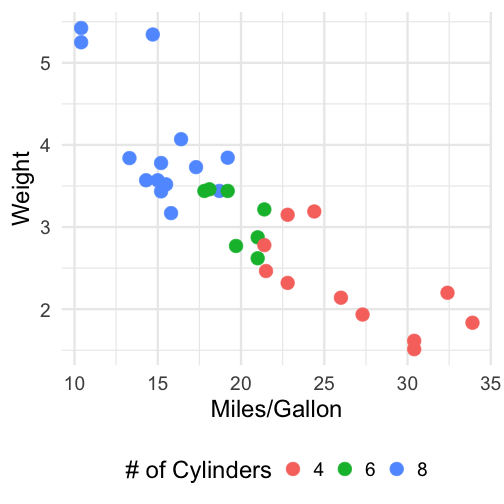
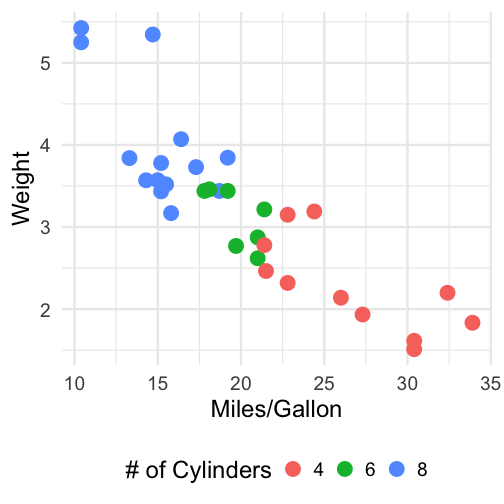
Session 2 slides update

diff --git a/slides/session_2/session_2.html b/slides/session_2/session_2.html
@@ -27,7 +27,7 @@ class: center, middle
 
 ## Session 2
 
-### September 13, 2024
+### September 19, 2025
 
 ---
 
@@ -565,7 +565,7 @@ class: center, middle
 
 ---
 
-### Mid-Course Assignment (**Due on Thursday, September 26**)
+### Mid-Course Assignment (**Due on Wednesday, October 1**)
 
 &lt;ol&gt;
 &lt;li&gt; Find an open-source dataset. Anything will do, there is ton of data out there. If you are looking for inspiration, you can explore the &lt;a href = https://github.com/rfordatascience/tidytuesday&gt;Tidy Tuesday Github repository&lt;/a&gt;. &lt;br&gt;&lt;/br&gt;&lt;/li&gt;
@@ -618,10 +618,10 @@ RStudio, **[RStudio Cheatsheets](https://www.rstudio.com/resources/cheatsheets/)
 <style data-target="print-only">@media screen {.remark-slide-container{display:block;}.remark-slide-scaler{box-shadow:none;}}</style>
 <script src="https://remarkjs.com/downloads/remark-latest.min.js"></script>
 <script>var slideshow = remark.create({
-"highlightStyle": "github",
-"highlightLines": true,
-"countIncrementalSlides": false,
-"slideNumberFormat": "%current%"
+  "highlightStyle": "github",
+  "highlightLines": true,
+  "countIncrementalSlides": false,
+  "slideNumberFormat": "%current%"
 });
 if (window.HTMLWidgets) slideshow.on('afterShowSlide', function (slide) {
   window.dispatchEvent(new Event('resize'));

diff --git a/README.html b/README.html
@@ -370,7 +370,8 @@ folder</a></p></li>
 or <a href="https://mfiorina.github.io/mief_sais_r_course/syllabus/mief_r_course_syllabus.pdf">.pdf</a>)</p></li>
 <li><p>Session 1 slides (<a href="https://mfiorina.github.io/mief_sais_r_course/slides/session_1/session_1.html">.html</a>
 or <a href="https://mfiorina.github.io/mief_sais_r_course/slides/session_1/session_1.pdf">.pdf</a>)</p></li>
-<li><p>Session 2 slides <a href="(%5B.html%5D(https://mfiorina.github.io/mief_sais_r_course/slides/session_2/session_2.html))"></a></p></li>
+<li><p>Session 2 slides (<a href="https://mfiorina.github.io/mief_sais_r_course/slides/session_2/session_2.html">.html</a>
+or <a href="https://mfiorina.github.io/mief_sais_r_course/slides/session_2/session_2.pdf">.pdf</a>)</p></li>
 <li><p>Session 3 slides <a href="(%5B.html%5D(https://mfiorina.github.io/mief_sais_r_course/slides/session_3/session_3.html))"></a></p></li>
 <li><p>Session 4 slides <a href="(%5B.html%5D(https://mfiorina.github.io/mief_sais_r_course/slides/session_4/session_4.html))"></a></p></li>
 </ul>

diff --git a/slides/session_2/xaringan-themer.css b/slides/session_2/xaringan-themer.css
@@ -15,7 +15,7 @@
  *    - xaringan wiki: https://github.com/yihui/xaringan/wiki
  *    - remarkjs wiki: https://github.com/gnab/remark/wiki
  *
- *  Version: 0.4.2
+ *  Version: 0.4.4
  *
  * ------------------------------------------------------- */
 @import url(https://fonts.googleapis.com/css?family=Atkinson+Hyperlegible&display=swap);

diff --git a/README.md b/README.md
@@ -14,7 +14,7 @@ Click on the links below to get access to:
 
 - Session 1 slides ([.html](https://mfiorina.github.io/mief_sais_r_course/slides/session_1/session_1.html) or [.pdf](https://mfiorina.github.io/mief_sais_r_course/slides/session_1/session_1.pdf))
 
-- Session 2 slides [](([.html](https://mfiorina.github.io/mief_sais_r_course/slides/session_2/session_2.html)))
+- Session 2 slides ([.html](https://mfiorina.github.io/mief_sais_r_course/slides/session_2/session_2.html) or [.pdf](https://mfiorina.github.io/mief_sais_r_course/slides/session_2/session_2.pdf))
 
 - Session 3 slides [](([.html](https://mfiorina.github.io/mief_sais_r_course/slides/session_3/session_3.html)))
 
